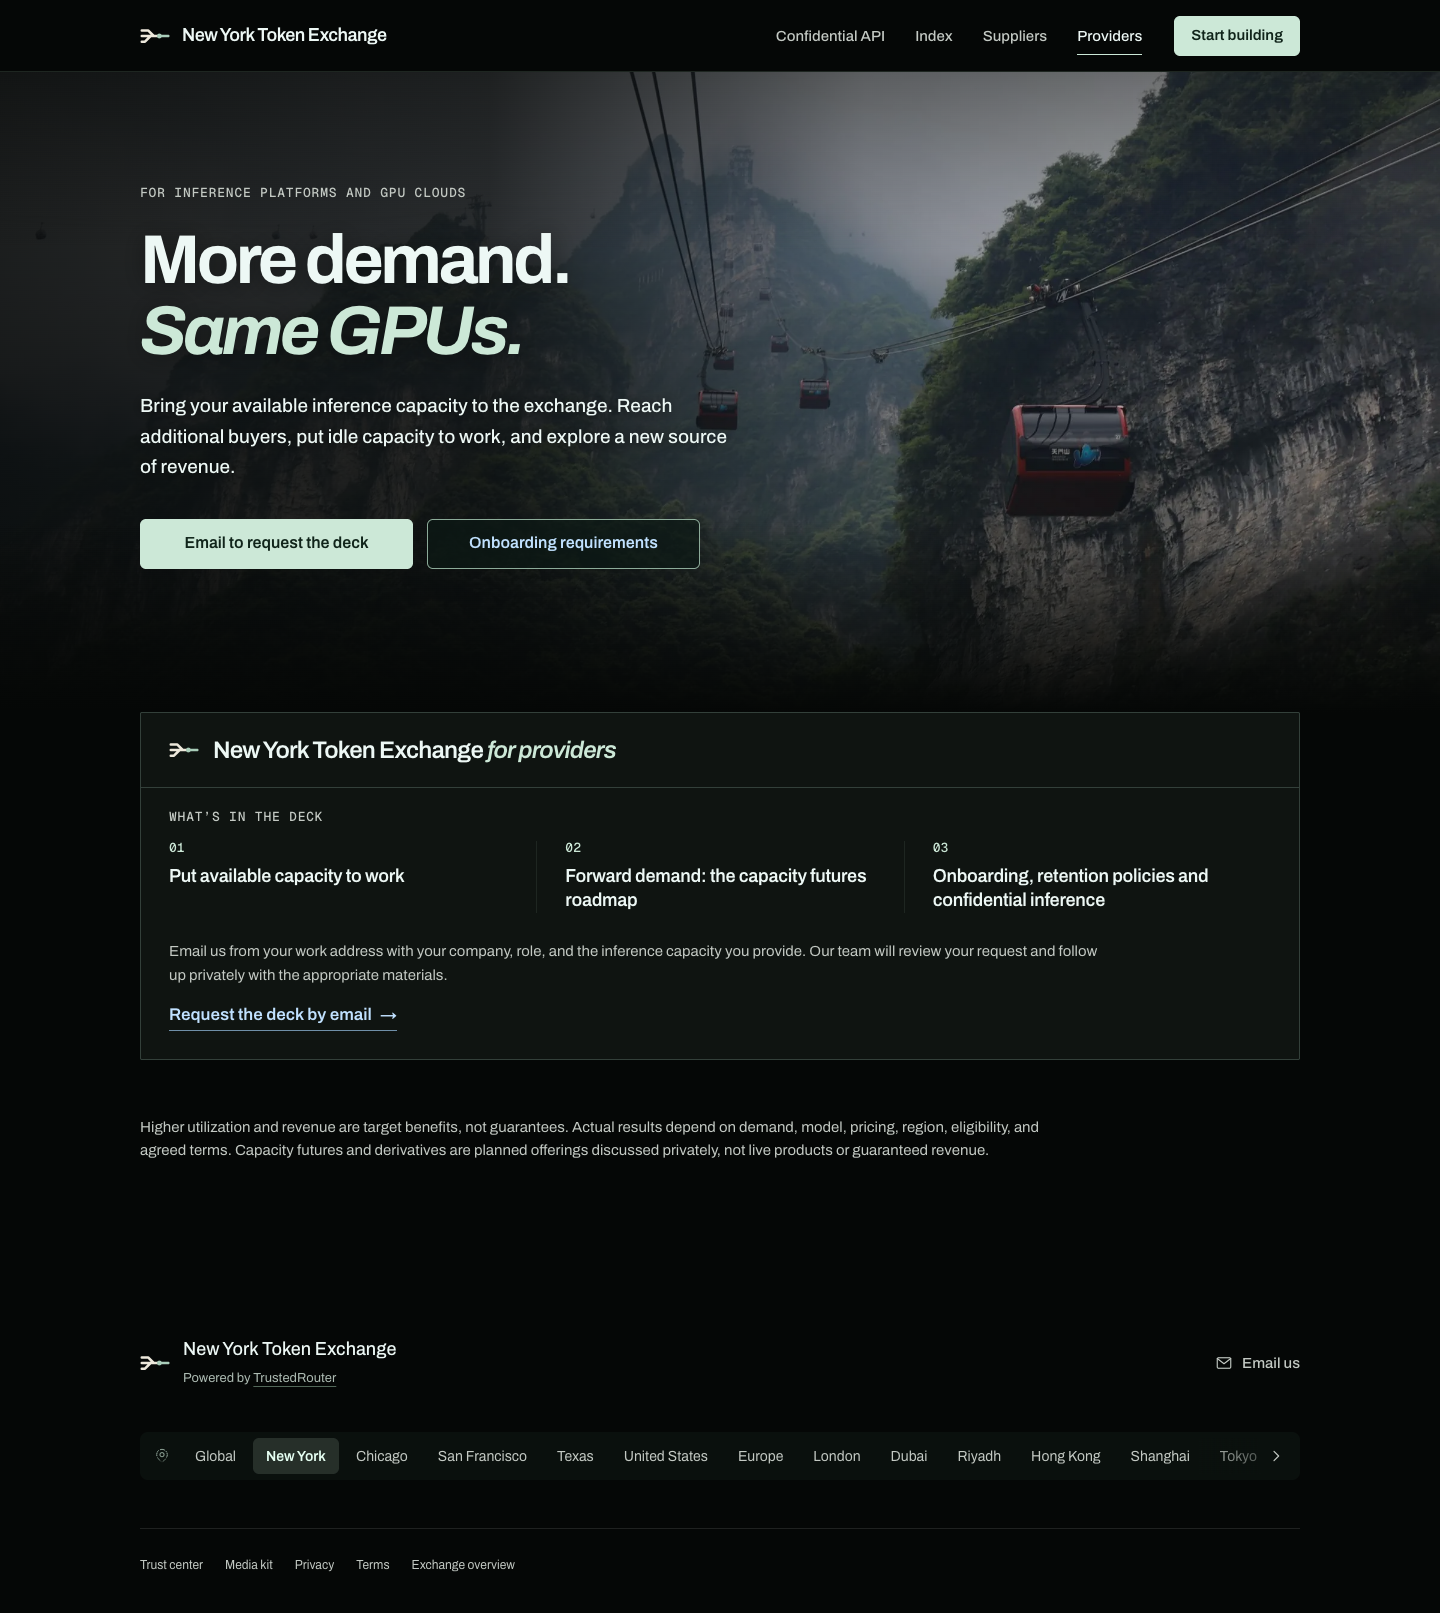
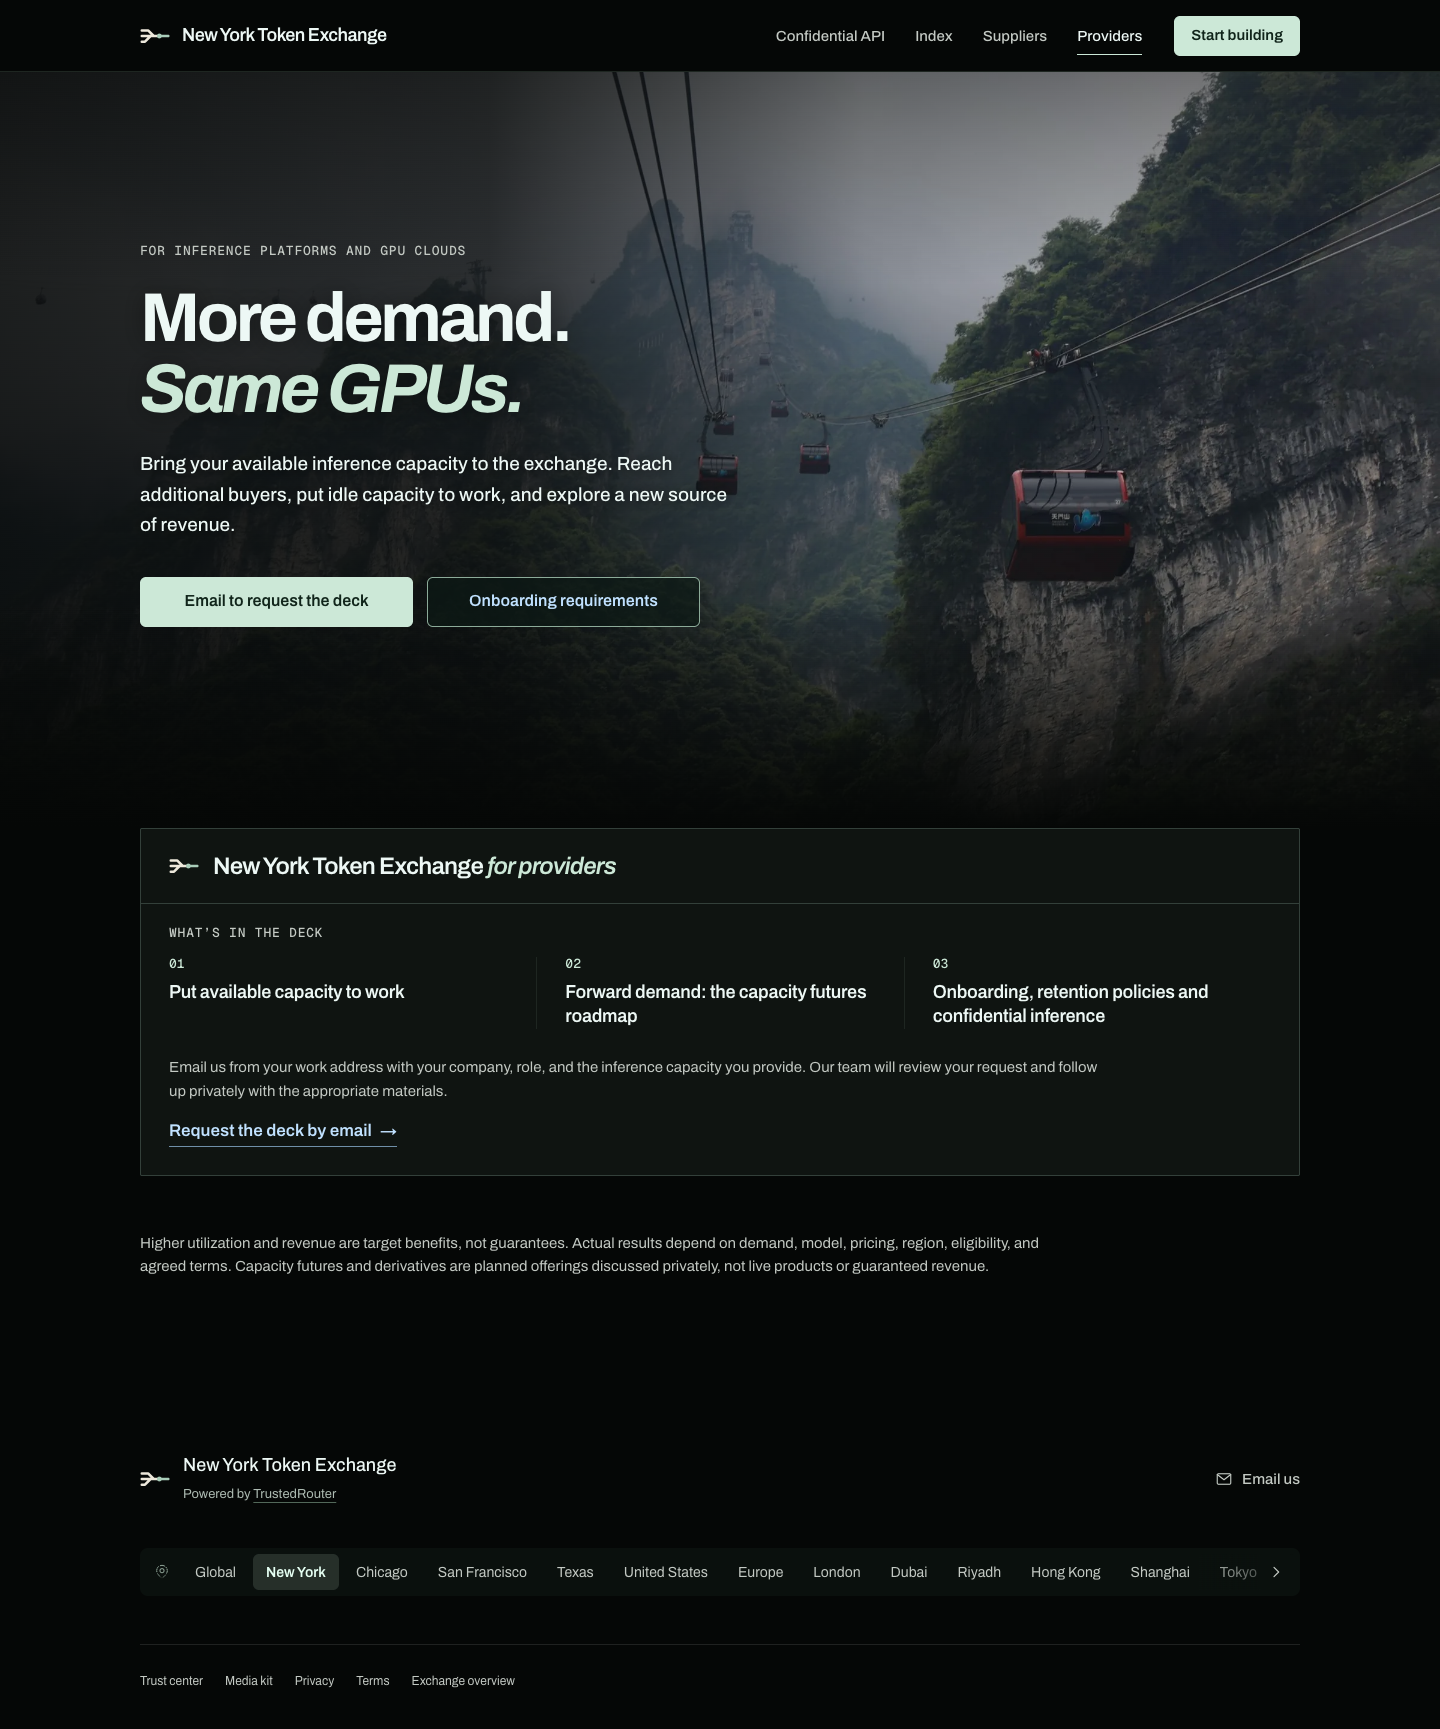
Balance provider hero height on desktop

diff --git a/sites/token-exchange/nyte-v2/providers.css b/sites/token-exchange/nyte-v2/providers.css
@@ -1,6 +1,6 @@
 /* Approved provider hero and deck panel; controls use shared site styles. */
 .ph-cableway{background-image:url(photos/cableway-mist-2400.webp)}
-.hero-pv{position:relative;isolation:isolate;overflow:hidden;min-height:min(72svh,640px);display:flex;align-items:center;padding:64px 0 96px}
+.hero-pv{position:relative;isolation:isolate;overflow:hidden;min-height:max(640px,calc(100svh - var(--header) - 72px));display:flex;align-items:center;padding:64px 0 96px}
 .hero-pv .ph{background-position:70% 56%}
 .hero-pv::before{content:"";position:absolute;inset:0;z-index:-1;background:linear-gradient(180deg,rgba(5,7,6,.45) 0%,rgba(5,7,6,0) 28%,rgba(5,7,6,0) 70%,#050706 100%),linear-gradient(90deg,rgba(5,7,6,.88) 0%,rgba(5,7,6,.78) 34%,rgba(5,7,6,.3) 60%,rgba(5,7,6,.12) 100%)}
 .hero-pv .wrap{width:100%}
